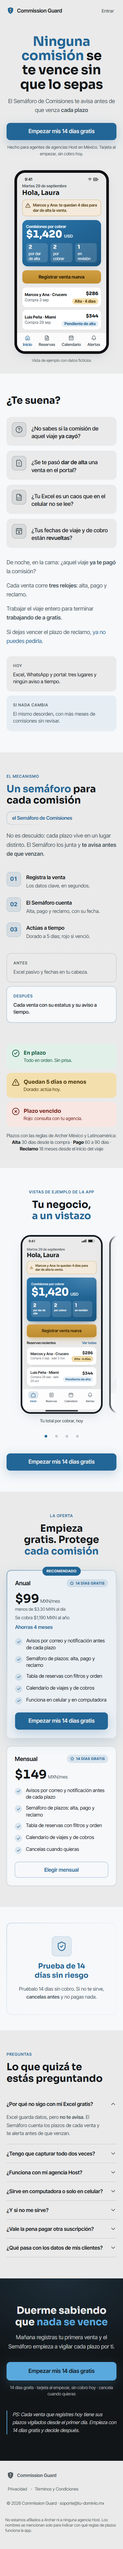
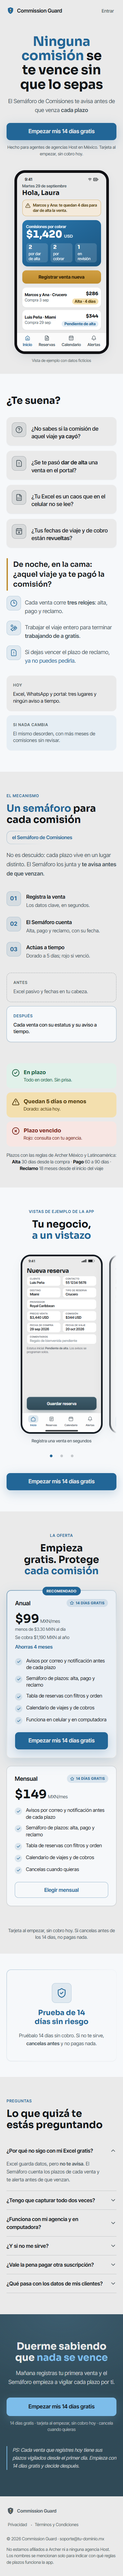
feat: ronda 4 de mejoras de la landing (agitacion visual, contador, semaforo en secuencia, FAQ 6, footer)

Changed region(s): [[0.0, 0.0, 1.0, 0.9996], [0.8507, 0.3124, 0.9093, 0.3436], [0.0587, 0.0312, 0.088, 0.0625]]

diff --git a/app/page.tsx b/app/page.tsx
@@ -3,7 +3,7 @@
 // Landing de ventas — copy MARCADO de docs/copy/landing.md (trazado a FICHA-AVATAR.md).
 // Modelo 2 (02C): el CTA lleva a /onboarding. Nombre de marca provisional en BRAND.
 
-import { CalendarX, CircleHelp, FileSpreadsheet, FileWarning } from 'lucide-react';
+import { CalendarX, CircleHelp, FileSpreadsheet, FileWarning, Clock3, HandCoins } from 'lucide-react';
 import { Hero } from '@/components/landing/Hero';
 import { Problema } from '@/components/landing/Problema';
 import { Agitacion } from '@/components/landing/Agitacion';
@@ -54,6 +54,7 @@ export default function Landing() {
       />
 
       <Agitacion
+        iconos={[Clock3, Clock3, HandCoins, FileWarning]}
         frases={[
           'De noche, en la cama: ¿aquel viaje [b]ya te pagó[/b] la comisión?',
           'Cada venta corre [b]tres relojes[/b]: alta, pago y reclamo.',
@@ -91,7 +92,6 @@ export default function Landing() {
         kicker="VISTAS DE EJEMPLO DE LA APP"
         tituloMarked="Tu negocio, [acento]a un vistazo[/acento]"
         frames={[
-          { src: '/mock/inicio.png', alt: 'Vista de ejemplo: inicio con el total por cobrar', label: 'Tu total por cobrar, hoy' },
           { src: '/mock/nueva-reserva.png', alt: 'Vista de ejemplo: formulario de nueva reserva', label: 'Registra una venta en segundos' },
           { src: '/mock/resultado.png', alt: 'Vista de ejemplo: plazos programados de una reserva', label: 'Tu primera reserva, ya vigilada' },
           { src: '/mock/calendario.png', alt: 'Vista de ejemplo: calendario del mes', label: 'Viajes y cobros en un calendario' },
@@ -137,6 +137,10 @@ export default function Landing() {
         }}
       />
 
+      <p className="bg-[var(--bg)] px-5 pb-10 text-center text-sm text-[var(--text-secondary)]">
+        Tarjeta al empezar, sin cobro hoy. Si cancelas antes de los 14 días, no pagas nada.
+      </p>
+
       <Garantia
         nombre="Prueba de 14 días sin riesgo"
         condicionMarked="Pruébalo 14 días sin cobro. Si no te sirve, [b]cancelas antes[/b] y no pagas nada."
@@ -155,13 +159,9 @@ export default function Landing() {
               'Capturas una vez. El portal de tu agencia sigue siendo tuyo: [b]la app no lo reemplaza[/b], te recuerda usarlo a tiempo.',
           },
           {
-            pregunta: '¿Funciona con mi agencia Host?',
+            pregunta: '¿Funciona con mi agencia y en computadora?',
             respuestaMarked:
-              'Empezamos con [b]Archer México y Latinoamérica[/b]. Otras agencias vendrán después.',
-          },
-          {
-            pregunta: '¿Sirve en computadora o solo en celular?',
-            respuestaMarked: 'Funciona en el navegador de tu celular y de tu computadora, con los mismos datos.',
+              'Empezamos con [b]Archer México y Latinoamérica[/b]; otras agencias vendrán después. Funciona en el navegador de tu celular y de tu computadora.',
           },
           {
             pregunta: '¿Y si no me sirve?',
@@ -194,14 +194,12 @@ export default function Landing() {
         appName={BRAND}
         logo={<Logo tono="neutro" />}
         soporteEmail="soporte@tu-dominio.mx"
+        aviso="No estamos afiliados a Archer ni a ninguna agencia Host. Los nombres se mencionan solo para indicar con qué reglas de plazos funciona la app."
         enlaces={[
           { label: 'Privacidad', href: '/privacidad' },
           { label: 'Términos y Condiciones', href: '/terminos' },
         ]}
       />
-      <p className="mx-auto max-w-5xl px-4 pb-12 text-xs text-[var(--text-tertiary)]">
-        No estamos afiliados a Archer ni a ninguna agencia Host. Los nombres se mencionan solo para indicar con qué reglas de plazos funciona la app.
-      </p>
 
       <StickyCtaMobile labelComercial={CTA_LABEL} href={CTA_HREF} />
     </div>

diff --git a/components/landing/Agitacion.tsx b/components/landing/Agitacion.tsx
@@ -8,12 +8,15 @@
 // (un solo movimiento visual, sin separador). Cero decoración de miedo.
 
 import { motion } from 'motion/react';
+import type { LucideIcon } from 'lucide-react';
 import { SectionShell, useReveal, VIEWPORT_ONCE } from './ui';
 import { MarkedCopy, warnCopy, warnRango } from './MarkedCopy';
 
 export interface AgitacionProps {
   /** 2-4 frases MARCADAS y cortas — el array es el contrato: nada de párrafos. */
   frases: string[];
+  /** Íconos opcionales por frase (misma longitud que frases) — ancla visual para escanear. */
+  iconos?: LucideIcon[];
   /** Mini-card opcional "hoy vs en 6 meses" (55 §3). */
   contraste?: {
     labelHoy: string;
@@ -24,7 +27,7 @@ export interface AgitacionProps {
   id?: string;
 }
 
-export function Agitacion({ frases, contraste, id }: AgitacionProps) {
+export function Agitacion({ frases, iconos, contraste, id }: AgitacionProps) {
   warnRango('Agitación → frases', frases.length, 2, 4);
   frases.forEach((f, i) => warnCopy(`Agitación → frase ${i + 1}`, f, 18));
   const { contenedor, item } = useReveal();
@@ -39,15 +42,36 @@ export function Agitacion({ frases, contraste, id }: AgitacionProps) {
         className="mx-auto max-w-[620px]"
       >
         <div className="flex flex-col gap-4">
-          {frases.map((f, i) => (
-            <motion.p
-              key={i}
-              variants={item}
-              className="text-[17px] leading-[1.6] text-[var(--text-secondary)]"
-            >
-              <MarkedCopy text={f} />
-            </motion.p>
-          ))}
+          {frases.map((f, i) => {
+            const Icono = iconos?.[i];
+            // La primera frase es la escena: va como cita, con más peso que las demás.
+            if (i === 0) {
+              return (
+                <motion.blockquote
+                  key={i}
+                  variants={item}
+                  className="border-l-4 border-[var(--accent-2)] py-1 pl-4 text-[22px] font-semibold leading-snug text-[var(--text-primary)] [font-family:var(--font-display)]"
+                >
+                  <MarkedCopy text={f} />
+                </motion.blockquote>
+              );
+            }
+            return (
+              <motion.div key={i} variants={item} className="flex items-start gap-3">
+                {Icono && (
+                  <span
+                    aria-hidden="true"
+                    className="flex size-11 shrink-0 items-center justify-center rounded-[var(--radius-button)] border border-[color-mix(in_oklab,var(--accent)_22%,transparent)] bg-[var(--chip-bg)]"
+                  >
+                    <Icono size={22} strokeWidth={1.8} color="var(--accent)" aria-hidden="true" />
+                  </span>
+                )}
+                <p className="pt-2 text-[17px] leading-[1.5] text-[var(--text-secondary)]">
+                  <MarkedCopy text={f} />
+                </p>
+              </motion.div>
+            );
+          })}
         </div>
 
         {contraste && (

diff --git a/components/AppMockInicio.tsx b/components/AppMockInicio.tsx
@@ -1,5 +1,6 @@
 import { TriangleAlert, Wifi, BatteryFull, House, FileText, CalendarDays, Bell } from 'lucide-react';
 import type { LucideIcon } from 'lucide-react';
+import { Contador } from './Contador';
 
 // Mock realista de la pantalla de Inicio (datos de ejemplo). NO es una captura de la app real:
 // se reemplaza por screenshots reales al cerrar la app interna (pendiente anotado en ESTADO.md).
@@ -45,7 +46,7 @@ export function AppMockInicio() {
         <div className="mt-3 rounded-2xl bg-gradient-to-br from-[var(--hero-from)] via-[var(--hero-mid)] to-[var(--hero-to)] p-3 text-white shadow-[var(--shadow-2)]">
           <p className="text-xs font-semibold opacity-90">Comisiones por cobrar</p>
           <p className="text-3xl font-extrabold leading-none tabular-nums [font-family:var(--font-display)]">
-            $1,420 <span className="text-xs font-semibold opacity-80">USD</span>
+            <Contador hasta={1420} /> <span className="text-xs font-semibold opacity-80">USD</span>
           </p>
           <div className="mt-3 grid grid-cols-3 gap-2">
             {CONTEOS.map(([n, l]) => (

diff --git a/components/Contador.tsx b/components/Contador.tsx
@@ -1,0 +1,25 @@
+'use client';
+
+import { animate, useInView, useReducedMotion } from 'motion/react';
+import { useEffect, useRef, useState } from 'react';
+
+// Número que cuenta de 0 al valor al entrar en pantalla (animación base de la app). Respeta reduced-motion.
+export function Contador({ hasta, prefijo = '$' }: { hasta: number; prefijo?: string }) {
+  const ref = useRef<HTMLSpanElement>(null);
+  const visible = useInView(ref, { once: true });
+  const reducir = useReducedMotion();
+  const [valor, setValor] = useState(reducir ? hasta : 0);
+
+  useEffect(() => {
+    if (!visible || reducir) return;
+    const c = animate(0, hasta, { duration: 1.1, ease: 'easeOut', onUpdate: (v) => setValor(Math.round(v)) });
+    return () => c.stop();
+  }, [visible, reducir, hasta]);
+
+  return (
+    <span ref={ref}>
+      {prefijo}
+      {valor.toLocaleString('en-US')}
+    </span>
+  );
+}

diff --git a/components/landing/FooterLegal.tsx b/components/landing/FooterLegal.tsx
@@ -22,10 +22,12 @@ export interface FooterLegalProps {
   enlaces: EnlaceLegal[];
   /** Email REAL que alguien lee. */
   soporteEmail: string;
+  /** Aviso legal breve (ej. no afiliación) — va dentro del footer. */
+  aviso?: string;
   anio?: number;
 }
 
-export function FooterLegal({ appName, logo, enlaces, soporteEmail, anio }: FooterLegalProps) {
+export function FooterLegal({ appName, logo, enlaces, soporteEmail, aviso, anio }: FooterLegalProps) {
   const year = anio ?? new Date().getFullYear();
   return (
     <footer className="py-8 md:py-12">
@@ -65,6 +67,7 @@ export function FooterLegal({ appName, logo, enlaces, soporteEmail, anio }: Foot
             {soporteEmail}
           </a>
         </p>
+        {aviso && <p className="mt-3 max-w-[60ch] text-[13px] text-[var(--text-tertiary)]">{aviso}</p>}
       </div>
     </footer>
   );

diff --git a/components/landing/CtaFinal.tsx b/components/landing/CtaFinal.tsx
@@ -48,7 +48,7 @@ export function CtaFinal({
       id={id}
       aria-label="Empieza hoy"
       className="relative overflow-hidden py-20 md:py-24"
-      style={{ background: 'var(--text-primary)', '--accent': 'var(--accent-on-dark)', '--on-accent': 'var(--text-primary)' } as import('react').CSSProperties}
+      style={{ background: 'var(--slate)', '--accent': 'var(--accent-on-dark)', '--on-accent': 'var(--text-primary)' } as import('react').CSSProperties}
     >
       {/* Profundidad también en el bloque invertido: radial sutil del acento */}
       <div

diff --git a/components/SemaforoVisual.tsx b/components/SemaforoVisual.tsx
@@ -27,7 +27,7 @@ export function SemaforoVisual() {
               initial={reducir ? false : { opacity: 0, y: 12 }}
               whileInView={{ opacity: 1, y: 0 }}
               viewport={{ once: true, amount: 0.4 }}
-              transition={{ duration: 0.4, delay: i * 0.12 }}
+              transition={{ duration: 0.5, delay: i * 0.35 }}
               className={`flex items-start gap-3 rounded-[var(--radius-card)] p-4 ${clase}`}
             >
               <Icon size={24} aria-hidden="true" className="mt-px shrink-0" />

diff --git a/components/landing/tokens.css b/components/landing/tokens.css
@@ -64,7 +64,8 @@
   --verde-text: #175c3e;
   --chip-rojo-bg: #f8e6e3;
   --rojo-text: #7a2218;
-  --accent-on-dark: #5aa9de;
+  --accent-on-dark: #7dbdea;
+  --slate: #304a57;
 }
 
 /* ============================================================================

diff --git a/ESTADO.md b/ESTADO.md
@@ -77,3 +77,4 @@ Asistente móvil ligero para agentes de viajes independientes afiliados a agenci
 - Screenshots: docs/revisiones/landing-375.png y landing-1280.png
 - Desviaciones menores del kit (justificadas por el revisor 2026-09-29): Hero sin marco doble alrededor del visual · Solucion antes/después con tratamiento invertido · Oferta total anual a 14px · CtaFinal con --accent-on-dark y --on-accent · SemaforoVisual añadido entre Solución y La app por dentro (el kit no muestra el mecanismo visualmente) · carrusel con vistas de ejemplo (public/mock/*.png, mockups de diseño rotulados como ejemplo).
 - H1 cambiado (revisor): "Ninguna comisión se te vence sin que lo sepas" (la app avisa plazos, no cobra por el agente).
+- Ronda 4 de la landing (2026-10-01, OK del usuario al ángulo): Agitación con cita + íconos; carrusel sin pantalla repetida (3 vistas); contador animado en el mock; luces del semáforo en secuencia; FAQ a 6; aviso de no afiliación dentro de FooterLegal; CTA final sobre pizarra #304A57 con --accent-on-dark #7dbdea; nota "tarjeta al empezar, sin cobro hoy" bajo los planes. Revisión 4 en curso.
